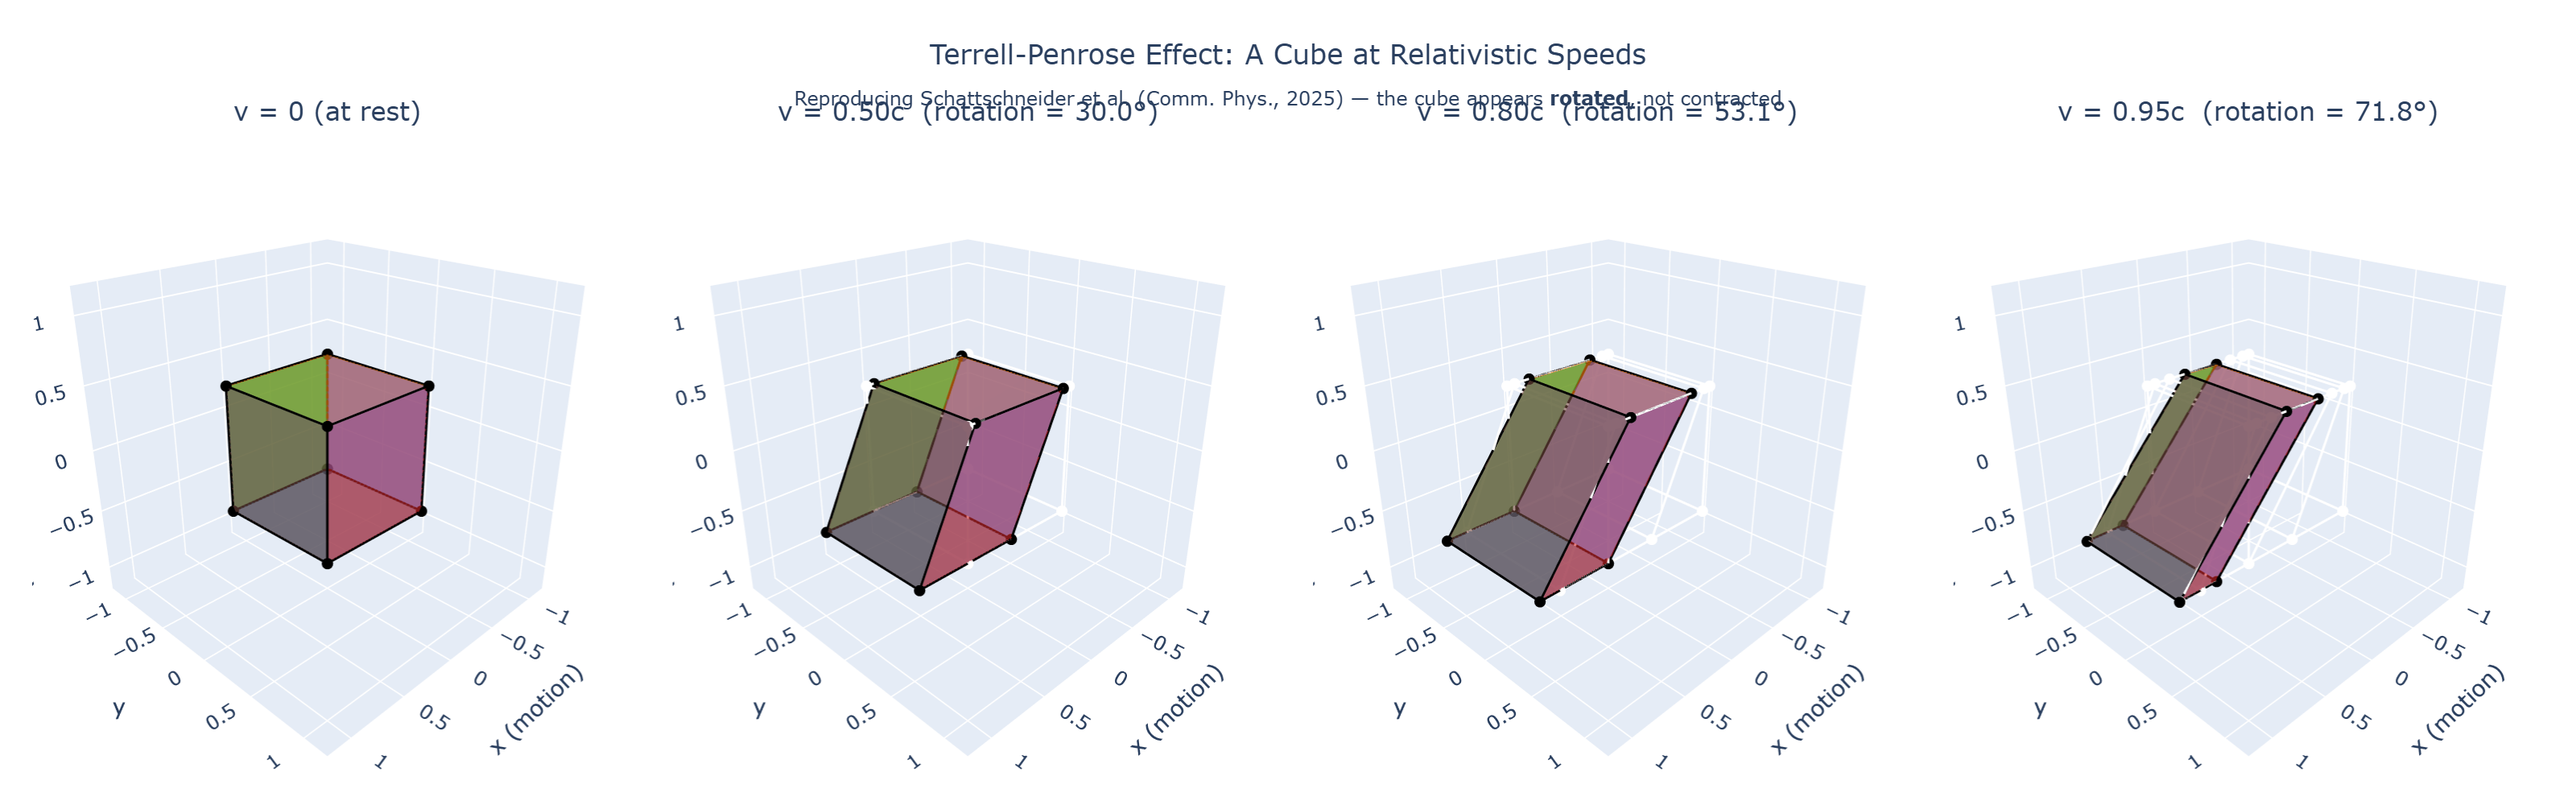
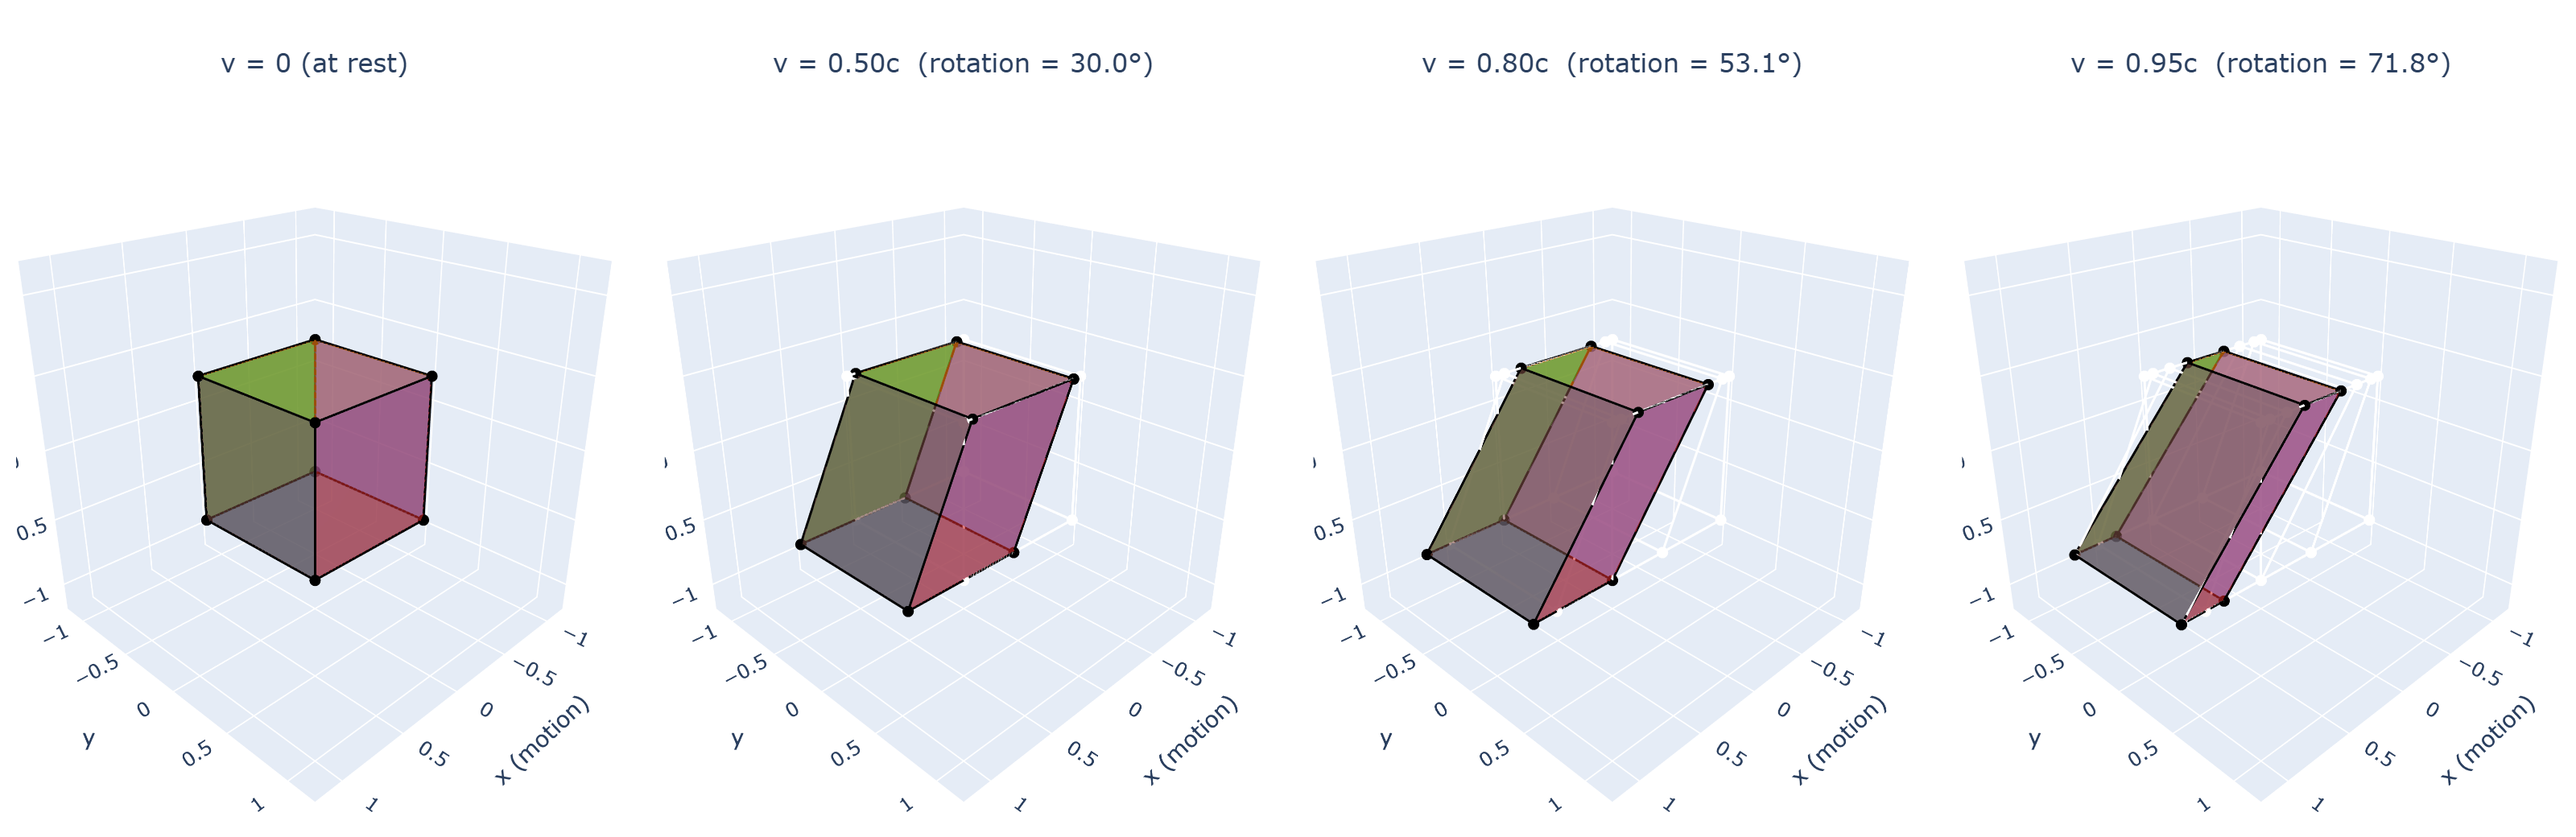
fix: clean up demo plot layout — remove overlapping title, increase margin
The previous PNG had the Plotly main title and subplot annotations
crowded together at the top, causing clipping when rendered on GitHub.
Remove the redundant main title (the README caption already covers it)
and increase the top margin so subplot labels are clearly readable.

diff --git a/examples/terrell_penrose_demo.py b/examples/terrell_penrose_demo.py
@@ -215,17 +215,9 @@ def main() -> None:
         )
 
     fig.update_layout(
-        title=dict(
-            text=(
-                "Terrell-Penrose Effect: A Cube at Relativistic Speeds<br>"
-                "<sub>Reproducing Schattschneider et al. (Comm. Phys., 2025) — "
-                "the cube appears <b>rotated</b>, not contracted</sub>"
-            ),
-            x=0.5,
-        ),
         width=1600,
-        height=500,
-        margin=dict(l=20, r=20, t=80, b=20),
+        height=520,
+        margin=dict(l=10, r=10, t=50, b=10),
     )
 
     out_dir = Path("examples")
